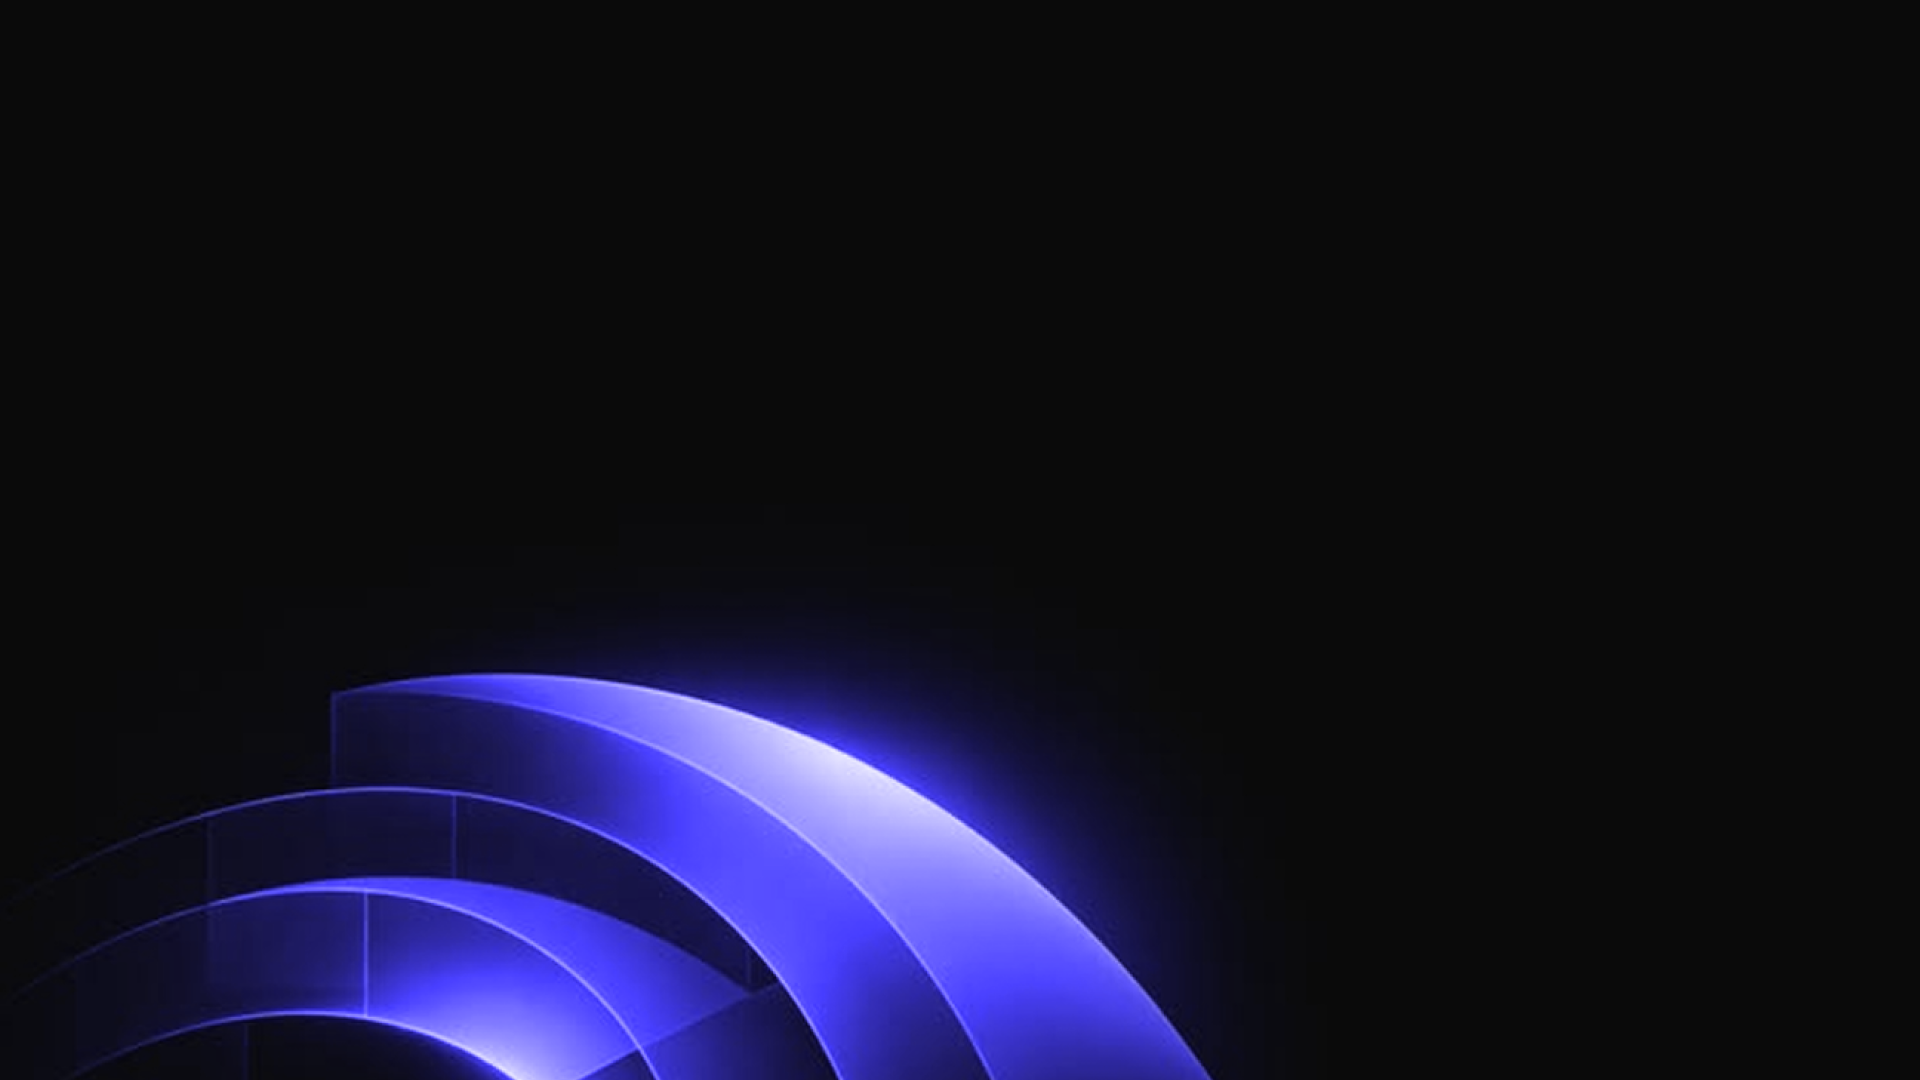
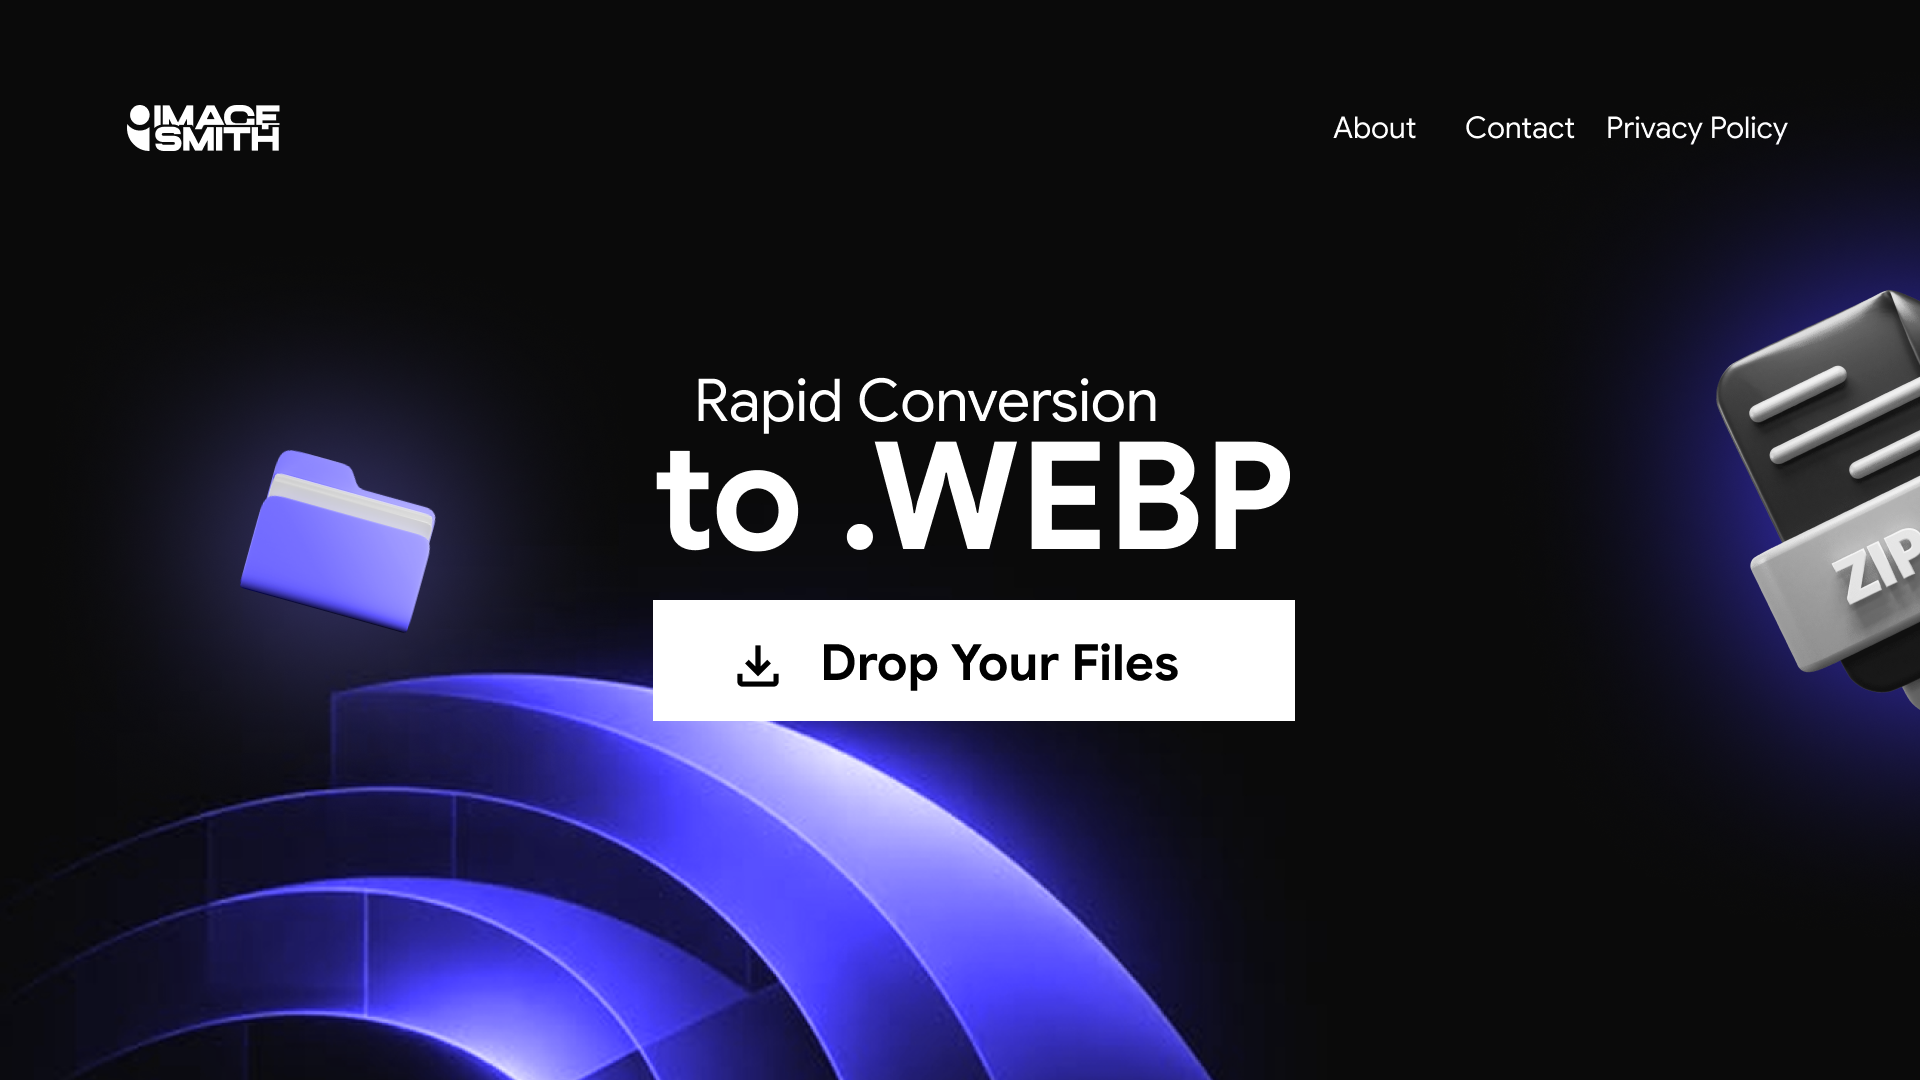
Fix hero: fixed nav overlays hero, background covers full 100vh from top
- Changed nav from sticky to fixed so it floats over hero background
- Hero is now h-screen (100vh) starting from page top, not below nav
- Background image covers true full viewport including behind nav
- Icons vertically centered at true 50% with larger sizes (md:w-80)
- ZIP icon changed to object-contain (no cropping)
- Parallax kept intact
- Updated background.png with new version

diff --git a/src/app/page.tsx b/src/app/page.tsx
@@ -39,26 +39,22 @@ export default function HomePage() {
 
   return (
     <main className="min-h-screen bg-bg overflow-x-hidden">
-      {/* Sticky Nav */}
-      <nav className="sticky top-0 z-50 px-6 py-6 flex items-center justify-between backdrop-blur-md bg-black/40 border-b border-white/10">
+
+      {/* Fixed Nav - floats over the hero */}
+      <nav className="fixed top-0 left-0 right-0 z-50 px-8 py-5 flex items-center justify-between backdrop-blur-md bg-black/30 border-b border-white/5">
         <img src="/logo.svg" alt="ImageSmith" className="h-8" />
-        <div className="flex items-center gap-8 text-text">
-          <a href="#about" className="text-sm font-medium hover:text-accent transition-colors">
-            About
-          </a>
-          <a href="#contact" className="text-sm font-medium hover:text-accent transition-colors">
-            Contact
-          </a>
-          <a href="#privacy" className="text-sm font-medium hover:text-accent transition-colors">
-            Privacy Policy
-          </a>
+        <div className="flex items-center gap-8 text-white">
+          <a href="#about" className="text-sm font-medium hover:opacity-70 transition-opacity">About</a>
+          <a href="#contact" className="text-sm font-medium hover:opacity-70 transition-opacity">Contact</a>
+          <a href="#privacy" className="text-sm font-medium hover:opacity-70 transition-opacity">Privacy Policy</a>
         </div>
       </nav>
 
-      {/* Hero */}
-      <section className="relative w-full min-h-screen flex items-center justify-center overflow-hidden bg-black">
-        {/* Background with parallax effect */}
-        <div 
+      {/* Hero - full 100vh from very top, behind nav */}
+      <section className="relative w-full h-screen flex items-center justify-center overflow-hidden bg-black">
+
+        {/* Background with parallax */}
+        <div
           ref={backgroundRef}
           className="absolute inset-0 z-0 w-full h-full"
           style={{ transform: `translateY(${parallaxOffset}px)` }}
@@ -66,46 +62,41 @@ export default function HomePage() {
           <img
             src="/images/background.png"
             alt="Hero background"
-            className="w-full h-full object-cover"
-          />
-          <div className="absolute inset-0 bg-gradient-to-b from-black/30 via-transparent to-black/40" />
-        </div>
-
-        {/* Left decorative folder icon */}
-        <div className="absolute left-8 md:left-16 top-1/2 -translate-y-1/2 z-[1] pointer-events-none">
-          <img 
-            src="/images/folder-icon.png" 
-            alt="Folder" 
-            className="w-48 h-48 md:w-64 md:h-64 drop-shadow-[0_0_40px_rgba(168,107,207,0.8)]"
+            className="w-full h-full object-cover object-center"
           />
         </div>
 
-        {/* Right decorative ZIP icon */}
-        <div className="absolute right-0 md:right-0 bottom-0 md:bottom-0 w-80 h-80 md:w-[32rem] md:h-[32rem] opacity-100 pointer-events-none z-[1]">
+        {/* Left folder icon */}
+        <div className="absolute left-0 top-1/2 -translate-y-1/2 z-[1] pointer-events-none">
+          <img
+            src="/images/folder-icon.png"
+            alt="Folder"
+            className="w-64 h-64 md:w-80 md:h-80 drop-shadow-[0_0_60px_rgba(168,107,207,0.9)]"
+          />
+        </div>
+
+        {/* Right ZIP icon */}
+        <div className="absolute right-0 top-1/2 -translate-y-1/2 z-[1] pointer-events-none">
           <img
             src="/images/zip-icon.png"
             alt="ZIP file"
-            className="w-full h-full object-cover drop-shadow-2xl"
+            className="w-64 h-64 md:w-80 md:h-80 object-contain drop-shadow-2xl"
           />
         </div>
 
         {/* Content */}
-        <div className="relative z-20 text-center flex flex-col items-center gap-12 px-6 max-w-4xl">
-          <div className="space-y-6">
-            <p className="text-white text-xl md:text-2xl font-medium tracking-wider">Rapid Conversion</p>
-            <h1 className="font-display font-bold text-6xl md:text-8xl text-white leading-none">
-              to <span className="text-white block md:inline-block mt-2 md:mt-0">.WEBP</span>
-            </h1>
-          </div>
-
-          {/* CTA Button */}
-          <button 
+        <div className="relative z-20 text-center flex flex-col items-center gap-8 px-6 max-w-3xl">
+          <p className="text-white/80 text-lg md:text-xl font-medium tracking-widest uppercase">Rapid Conversion</p>
+          <h1 className="font-display font-bold text-7xl md:text-9xl text-white leading-none tracking-tight">
+            to .WEBP
+          </h1>
+          <button
             onClick={() => {
-              const converterSection = document.getElementById('converter-section')
-              converterSection?.scrollIntoView({ behavior: 'smooth' })
+              document.getElementById('converter-section')?.scrollIntoView({ behavior: 'smooth' })
             }}
-            className="mt-6 px-12 py-5 bg-white text-black rounded-xl font-semibold text-xl hover:bg-gray-50 active:bg-gray-100 transition-all duration-200 flex items-center gap-3 shadow-2xl hover:shadow-[0_20px_60px_rgba(255,255,255,0.3)] border-0 outline-none cursor-pointer">
-            <Download className="w-6 h-6" />
+            className="mt-4 px-14 py-5 bg-white text-black rounded-xl font-bold text-lg hover:bg-gray-50 transition-all duration-200 flex items-center gap-3 shadow-2xl border-0 outline-none cursor-pointer"
+          >
+            <Download className="w-5 h-5" />
             Drop Your Files
           </button>
         </div>
